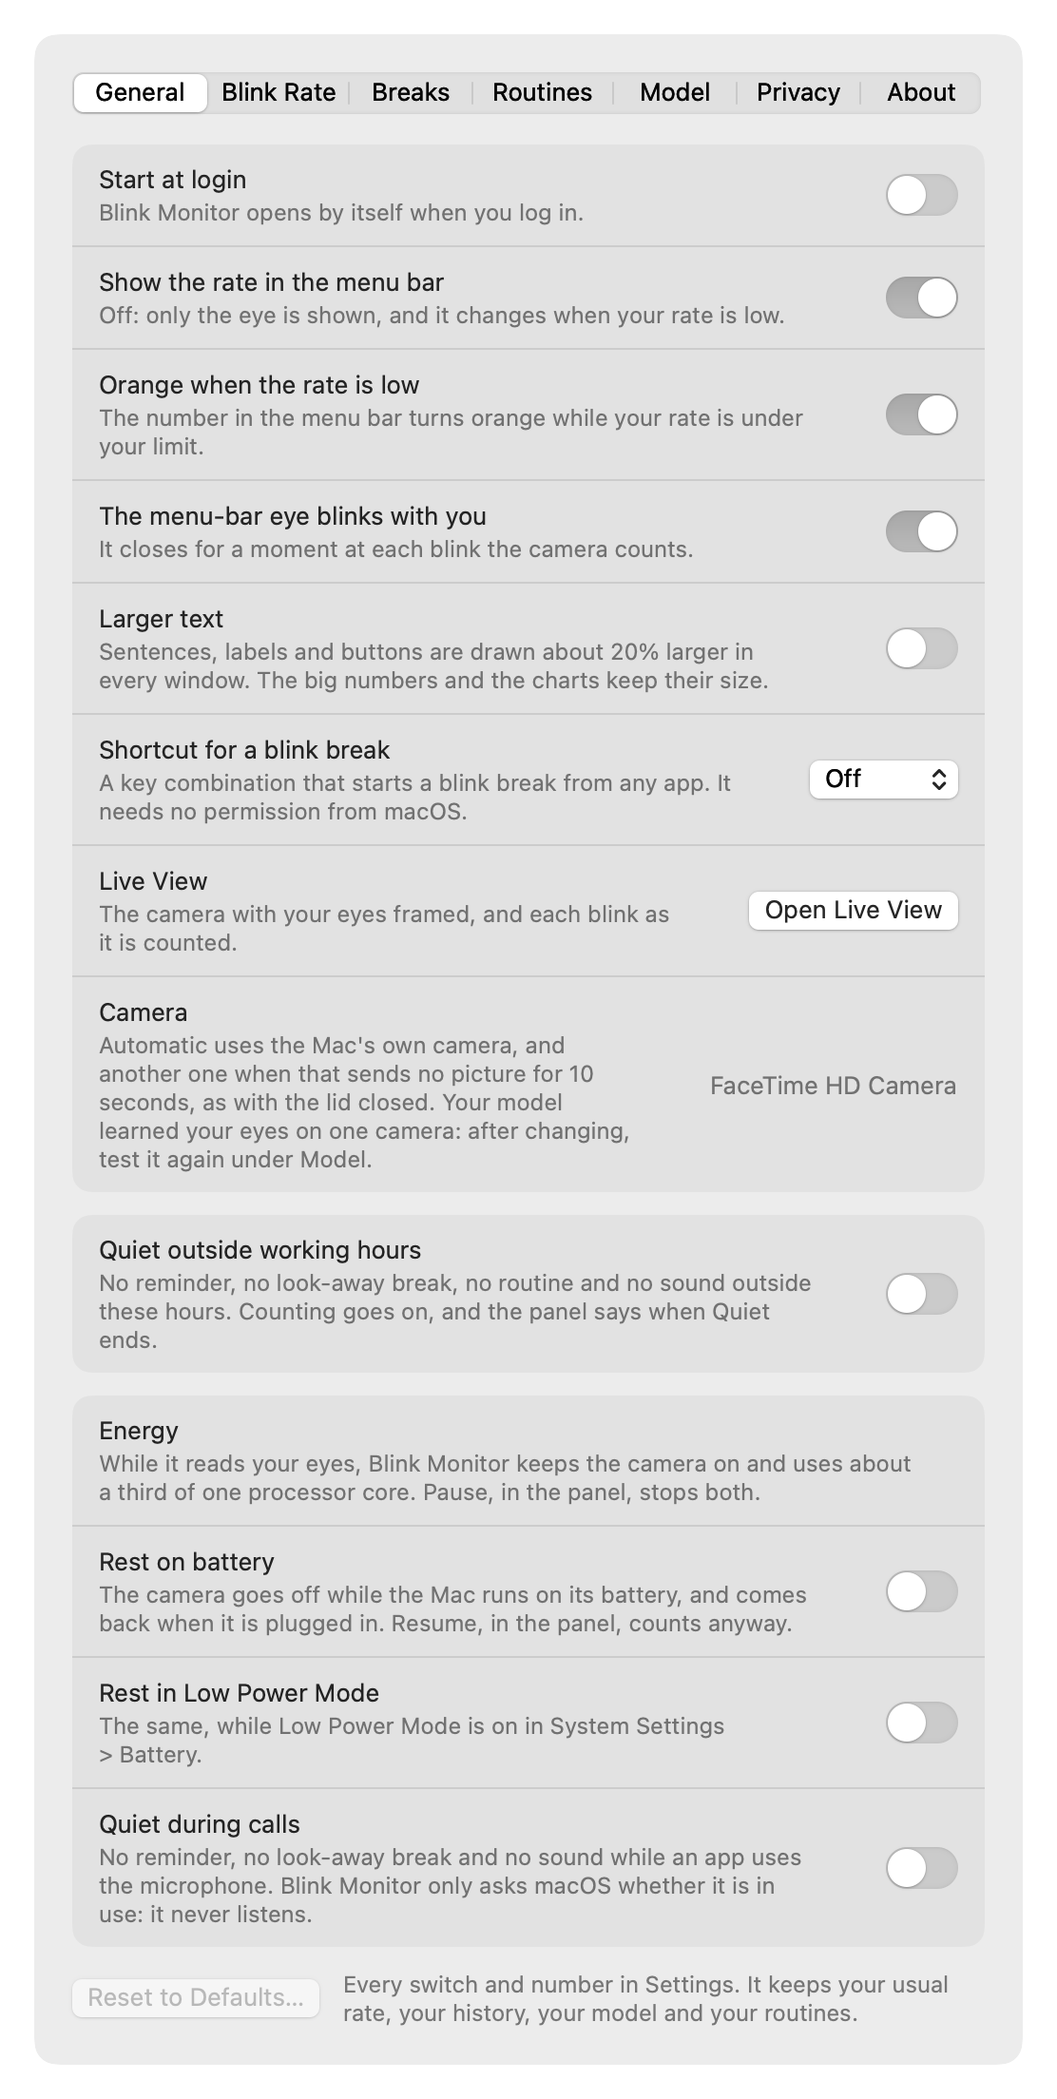
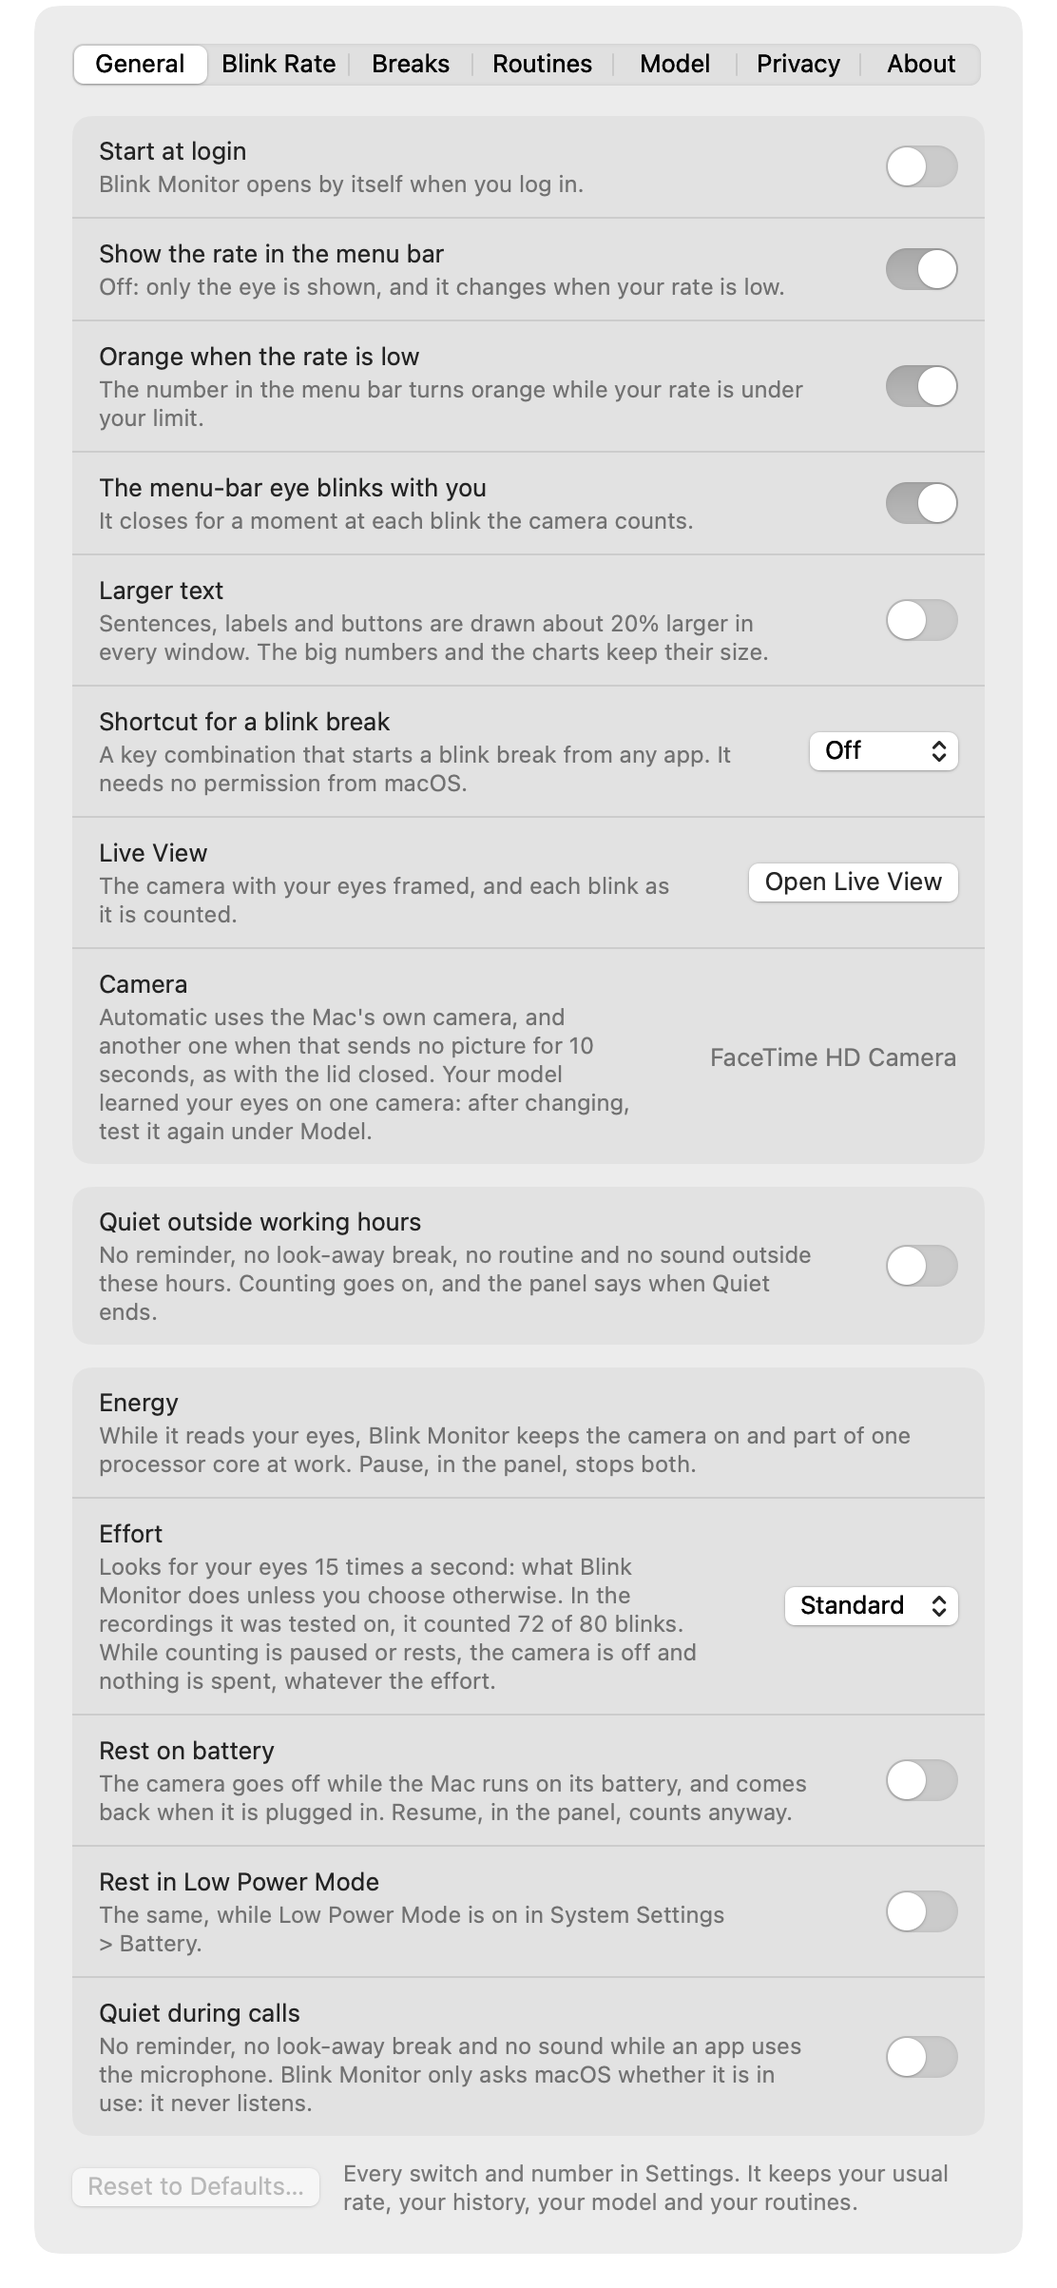
Settings > General > Effort: Light, Standard or Thorough, each with what it costs and what it counted
One stored choice, Standard unless chosen (Preferences.Standard, Reset to
Defaults, hasChoices). The row says for each level how often the eyes are looked
for, its processor work next to Standard (about 25% less, about 70% more) and
how many of the 80 marked blinks it counted, next to Standard's 72: the numbers
are read from Effort.measured, so a new measurement changes the words with it.
It also says how the choice sits with Pause and the two ways of resting: the
camera is off then, and nothing is spent whatever the effort.

The choice reaches the camera's thread at its next frame (MonitorPipeline
.setEffort): the counters are kept, a closure in progress is dropped, as when a
new model takes over.

The Energy row no longer says "about a third of one processor core": that was
measured in the app before a frame's work was made lighter, and the new figure
needs a camera to measure.

Snapshots: settings-general (which the docs show), and the two other levels.

diff --git a/Sources/BlinkMonitor/App/MonitorPipeline.swift b/Sources/BlinkMonitor/App/MonitorPipeline.swift
@@ -58,7 +58,8 @@ struct MonitorUpdate {
 ///
 /// THREE THINGS KEEP IT CHEAP IN THE BACKGROUND:
 ///   - Frames get only the work they need: `FrameSchedule` (inside the reader) searches
-///     for the eyes every other frame, and looks at one frame in six when nobody is there.
+///     for the eyes every other frame (more or less often with another `Effort`), and
+///     looks at one frame in six when nobody is there.
 ///   - A search looks for the face in the whole frame twice a second only; in between it
 ///     places the landmarks in the box where the face was (`EyeLocator.usual`).
 ///   - The rest of the app is only told what it needs. With no window open, an update is
@@ -77,6 +78,8 @@ final class MonitorPipeline: @unchecked Sendable {
         var tick = false
         /// Another model to read the eyes with, from the next frame on.
         var newJudge: EyeJudging?
+        /// Another level of effort, from the next frame on.
+        var newEffort: Effort?
         /// A blink break is running: see `setExercise`.
         var exercise = false
     }
@@ -84,9 +87,12 @@ final class MonitorPipeline: @unchecked Sendable {
     private let requests = Locked(Requests())
     /// Nil for a pipeline that is handed readings instead of frames (the demo).
     private var reader: EyeReader?
-    /// How the eyes are found. Kept, so that a model that takes over later (`setJudge`)
-    /// is given eyes found the same way.
+    /// The model, how the eyes are found and how often (`Effort`). Kept, so that when one
+    /// of the three changes (`setJudge`, `setEffort`) the reader is built again with the
+    /// two others as they were.
+    private var judge: EyeJudging?
     private let strategy: EyeLocator.Strategy
+    private var effort: Effort
     private var detector = BlinkDetector()
     private var stats = BlinkStats()
     private var minutes = MinuteAggregator()
@@ -101,19 +107,23 @@ final class MonitorPipeline: @unchecked Sendable {
     /// `classifier`: the model that reads the eyes. The one trained in the app
     /// (`EyeNetwork`) or a Core ML one made by the Python route (`EyeClassifier`).
     /// `strategy`: how the eyes are found (`EyeLocator.usual` unless asked otherwise at launch).
-    init(classifier: EyeJudging, strategy: EyeLocator.Strategy = EyeLocator.usual) {
+    /// `effort`: how often they are looked for, as chosen in Settings.
+    init(classifier: EyeJudging, strategy: EyeLocator.Strategy = EyeLocator.usual, effort: Effort = .standard) {
         self.strategy = strategy
-        reader = Self.reader(classifier, strategy)
+        self.effort = effort
+        judge = classifier
+        reader = Self.reader(classifier, strategy, effort)
     }
 
     /// A pipeline with no camera and no model behind it: see `process(_:time:)` for readings.
     init() {
         strategy = EyeLocator.usual
+        effort = .standard
         reader = nil
     }
 
-    private static func reader(_ classifier: EyeJudging, _ strategy: EyeLocator.Strategy) -> EyeReader {
-        EyeReader(classifier: classifier, finder: EyeFinder(locator: EyeLocator(strategy: strategy)))
+    private static func reader(_ classifier: EyeJudging, _ strategy: EyeLocator.Strategy, _ effort: Effort) -> EyeReader {
+        EyeReader(classifier: classifier, finder: EyeFinder(locator: EyeLocator(strategy: strategy), schedule: effort.schedule))
     }
 
     // MARK: - Requests from the main thread
@@ -140,6 +150,12 @@ final class MonitorPipeline: @unchecked Sendable {
     /// The counters and the minute in progress are kept; a closure in progress is dropped.
     func setJudge(_ judge: EyeJudging) {
         requests.withLock { $0.newJudge = judge }
+    }
+
+    /// Another level of effort, from the next frame on: it was chosen in Settings. Like a
+    /// new model, it keeps the counters and drops a closure in progress.
+    func setEffort(_ effort: Effort) {
+        requests.withLock { $0.newEffort = effort }
     }
 
     /// A blink break starts (true) or ends (false). WHILE IT RUNS, NOTHING GOES INTO THE
@@ -215,6 +231,7 @@ final class MonitorPipeline: @unchecked Sendable {
                 requests.reset = false
                 requests.tick = false
                 requests.newJudge = nil
+                requests.newEffort = nil
             }
             return requests
         }
@@ -222,9 +239,14 @@ final class MonitorPipeline: @unchecked Sendable {
             detector.reset()
             stats = BlinkStats()
         }
-        if let judge = asked.newJudge, reader != nil {
-            reader = Self.reader(judge, strategy)
-            detector.reset()
+        // A new model, or another level of effort: the eyes are read by a new reader.
+        if reader != nil, asked.newJudge != nil || (asked.newEffort != nil && asked.newEffort != effort) {
+            judge = asked.newJudge ?? judge
+            effort = asked.newEffort ?? effort
+            if let judge {
+                reader = Self.reader(judge, strategy, effort)
+                detector.reset()
+            }
         }
         return asked
     }
@@ -243,7 +265,7 @@ final class MonitorPipeline: @unchecked Sendable {
         // During a blink break the frame is "not read" as far as the count goes.
         let watched = stats.frame(time: time, eyesRead: reading.closed != nil && !asked.exercise)
         var newBlinks = 0
-        if let event = detector.update(time: time, closed: reading.closed) {
+        if let event = detector.update(time: time, reading: reading) {
             update.event = event
             if !asked.exercise {
                 stats.record(event)

diff --git a/Tests/BlinkMonitorTests/ModelTests.swift b/Tests/BlinkMonitorTests/ModelTests.swift
@@ -335,6 +335,19 @@ struct PreferencesTests {
         }
     }
 
+    @Test("The effort is Standard until chosen, is kept, and a word this version does not know reads as Standard")
+    func effort() {
+        withStore { store in
+            let preferences = Preferences(defaults: store)
+            #expect(preferences.effort == .standard && !preferences.hasChoices)
+            preferences.effort = .thorough
+            #expect(preferences.hasChoices)
+            #expect(Preferences(defaults: store).effort == .thorough)
+            store.set("extreme", forKey: "effort")
+            #expect(Preferences(defaults: store).effort == .standard)
+        }
+    }
+
     @Test("Reset to Defaults puts every choice back, and keeps what was measured or lived")
     func resetChoices() {
         withStore { store in
@@ -359,6 +372,7 @@ struct PreferencesTests {
             preferences.breakNudgesOn = true
             preferences.breakEndSound = false
             preferences.pauseOnBattery = true
+            preferences.effort = .light
             preferences.quietDuringCalls = true
             preferences.liveViewSound = true
             preferences.cameraID = "desk"
@@ -373,6 +387,7 @@ struct PreferencesTests {
                 #expect(read.floor == PublishedRates.startingFloor && !read.ownRateOfferAnswered)
                 #expect(read.breakPlan == BreakPlan.Preset.classic.plan && !read.breakNudgesOn && read.breakEndSound)
                 #expect(!read.pauseOnBattery && !read.quietDuringCalls && !read.liveViewSound && read.cameraID == nil)
+                #expect(read.effort == .standard)
                 // Kept.
                 #expect(read.reference == measured && read.welcomed)
                 #expect(read.pause == .paused(until: pausedUntil) && read.quietUntil == pausedUntil)
@@ -796,6 +811,26 @@ struct SettingsWordsTests {
         }
         #expect(EraseWords.history(startingLimit: 10).text.contains("goes back to 10"))
         #expect(EraseWords.captures(1).text.hasPrefix("1 capture of"))
+    }
+
+    @Test("Each effort says what it was measured to count, out of how many, and what it costs next to Standard")
+    func effortWords() {
+        #expect(Effort.allCases.map(EffortWords.name) == ["Light", "Standard", "Thorough"])
+        for effort in Effort.allCases {
+            let text = EffortWords.detail(effort), measured = effort.measured
+            #expect(text.contains("counted \(measured.found) of \(measured.marked) blinks"), "\(text)")
+            #expect(text.contains("\(effort.searchesASecond) times a second"), "\(text)")
+            // Nothing the graphics processor has a part in, so nothing said about it.
+            #expect(!text.lowercased().contains("graphics") && !text.contains("GPU"))
+        }
+        // The lower level says what it gives up beside what Standard counts; both others
+        // say what they cost beside it.
+        let standard = Effort.standard.measured.found
+        #expect(EffortWords.detail(.light).contains("where Standard counted \(standard)"))
+        #expect(EffortWords.detail(.light).contains("About 25% less processor work than Standard"))
+        #expect(EffortWords.detail(.thorough).contains("About 70% more processor work than Standard"))
+        #expect(!EffortWords.detail(.standard).contains("than Standard"))
+        #expect(EffortWords.whileResting.contains("the camera is off"))
     }
 
     @Test("Erasing the routine log empties it and keeps the routines")

diff --git a/Sources/BlinkMonitor/App/Preferences.swift b/Sources/BlinkMonitor/App/Preferences.swift
@@ -17,6 +17,7 @@ final class Preferences: ObservableObject {
         static let cameraID = "cameraID"
         static let pauseOnBattery = "pauseOnBattery"
         static let pauseInLowPower = "pauseInLowPowerMode"
+        static let effort = "effort"
         static let quietDuringCalls = "quietDuringCalls"
         static let blinkBreakShortcut = "blinkBreakShortcut"
         static let largerText = "largerText"
@@ -65,6 +66,9 @@ final class Preferences: ObservableObject {
     /// (`EnergyPause`). Both off unless chosen.
     @Published var pauseOnBattery: Bool { didSet { defaults.set(pauseOnBattery, forKey: Key.pauseOnBattery) } }
     @Published var pauseInLowPower: Bool { didSet { defaults.set(pauseInLowPower, forKey: Key.pauseInLowPower) } }
+    /// How often the eyes are looked for while counting runs (`Effort`). Standard unless
+    /// chosen: what the app did before the choice existed.
+    @Published var effort: Effort { didSet { defaults.set(effort.rawValue, forKey: Key.effort) } }
     /// No banner and no sound while the microphone is in use, which is most likely a call.
     @Published var quietDuringCalls: Bool { didSet { defaults.set(quietDuringCalls, forKey: Key.quietDuringCalls) } }
     /// "Quiet outside working hours": off unless chosen. The two times are minutes since
@@ -239,6 +243,7 @@ final class Preferences: ObservableObject {
         static let liveViewSound = false
         static let pauseOnBattery = false
         static let pauseInLowPower = false
+        static let effort = Effort.standard
         static let quietDuringCalls = false
         static let workingHoursOn = false
         static let largerText = false
@@ -278,6 +283,7 @@ final class Preferences: ObservableObject {
         liveViewSound = Standard.liveViewSound
         pauseOnBattery = Standard.pauseOnBattery
         pauseInLowPower = Standard.pauseInLowPower
+        effort = Standard.effort
         quietDuringCalls = Standard.quietDuringCalls
         blinkBreakShortcut = nil
         largerText = Standard.largerText
@@ -311,6 +317,7 @@ final class Preferences: ObservableObject {
         showRateInMenuBar != Standard.showRateInMenuBar || orangeRateWhenLow != Standard.orangeRateWhenLow
             || liveViewSound != Standard.liveViewSound || pauseOnBattery != Standard.pauseOnBattery
             || pauseInLowPower != Standard.pauseInLowPower || quietDuringCalls != Standard.quietDuringCalls
+            || effort != Standard.effort
             || blinkBack != Standard.blinkBack || remindersOn != Standard.remindersOn
             || automaticLimit != Standard.automaticLimit || floor != Standard.floor
             || breakNudgesOn != Standard.breakNudgesOn || breakMinutes != Standard.breakMinutes
@@ -334,6 +341,8 @@ final class Preferences: ObservableObject {
         cameraID = defaults.string(forKey: Key.cameraID)
         pauseOnBattery = bool(Key.pauseOnBattery, Standard.pauseOnBattery)
         pauseInLowPower = bool(Key.pauseInLowPower, Standard.pauseInLowPower)
+        // A word this version does not know (one written by a later version) reads as the standard.
+        effort = defaults.string(forKey: Key.effort).flatMap(Effort.init(rawValue:)) ?? Standard.effort
         quietDuringCalls = bool(Key.quietDuringCalls, Standard.quietDuringCalls)
         blinkBreakShortcut = defaults.string(forKey: Key.blinkBreakShortcut).flatMap(ShortcutChoice.init(rawValue:))
         largerText = bool(Key.largerText, Standard.largerText)

diff --git a/Sources/BlinkMonitor/App/EffortWords.swift b/Sources/BlinkMonitor/App/EffortWords.swift
@@ -1,0 +1,44 @@
+import Foundation
+import BlinkCore
+
+/// What Settings says about the effort (`Effort`): what each level does, what it was
+/// measured to cost and to count. Every number in a sentence is read from
+/// `Effort.measured`, so that a new measurement changes the words with it.
+enum EffortWords {
+
+    static let row = "Effort"
+
+    static func name(_ effort: Effort) -> String {
+        switch effort {
+        case .light: return "Light"
+        case .standard: return "Standard"
+        case .thorough: return "Thorough"
+        }
+    }
+
+    /// What the level does, what it costs next to Standard, and how many of the marked
+    /// blinks it counted: for a lower level, how many fewer, in so many words.
+    static func detail(_ effort: Effort) -> String {
+        let measured = effort.measured, standard = Effort.standard.measured
+        let counted = "In the recordings it was tested on, it counted \(measured.found) of \(Format.count(measured.marked, "blink"))"
+        switch effort {
+        case .light:
+            return "Looks for your eyes \(effort.searchesASecond) times a second, and forgets what it read while your head moved fast. "
+                + "About \(share(effort)) less processor work than Standard. \(counted), where Standard counted \(standard.found)."
+        case .standard:
+            return "Looks for your eyes \(effort.searchesASecond) times a second: what Blink Monitor does unless you choose otherwise. \(counted)."
+        case .thorough:
+            return "Looks for your eyes in every picture of the camera, \(effort.searchesASecond) times a second. "
+                + "About \(share(effort)) more processor work than Standard. \(counted), where Standard counted \(standard.found)."
+        }
+    }
+
+    /// How the choice sits with Pause and with the two ways of resting.
+    static let whileResting = "While counting is paused or rests, the camera is off and nothing is spent, whatever the effort."
+
+    /// "25%", "70%": the difference with Standard, to the nearest five.
+    static func share(_ effort: Effort) -> String {
+        let percent = Int((abs(effort.workAgainstStandard) * 20).rounded()) * 5
+        return "\(percent)%"
+    }
+}

diff --git a/Sources/BlinkMonitor/App/MonitorModel.swift b/Sources/BlinkMonitor/App/MonitorModel.swift
@@ -150,6 +150,7 @@ final class MonitorModel: ObservableObject {
     private var paceOfDemo: AnyCancellable?
     private var lookOfDemo: AnyCancellable?
     private var exerciseWatch: AnyCancellable?
+    private var effortWatch: AnyCancellable?
     private let performanceLog = PerformanceLog()
     private let blinkSound = NSSound(named: "Pop")
     private var liveViewOpen = false
@@ -197,6 +198,10 @@ final class MonitorModel: ObservableObject {
         // The exercise is left out of the count for as long as it runs (`MonitorPipeline.setExercise`).
         exerciseWatch = blinkBreak.$exercise.sink { [weak self] exercise in
             self?.pipeline?.setExercise(exercise.map { !$0.isDone } ?? false)
+        }
+        // The effort chosen in Settings reaches the camera's thread at its next frame.
+        effortWatch = preferences.$effort.dropFirst().sink { [weak self] effort in
+            self?.pipeline?.setEffort(effort)
         }
         routines.session.onEndedLate = { [weak self] session in
             guard let self else { return }
@@ -297,7 +302,7 @@ final class MonitorModel: ObservableObject {
             fail(.model(trainedHere: trainedHere), detail: "The eye model could not be loaded.\n\(modelSource.remedy)\n\(error)")
             return
         }
-        let pipeline = MonitorPipeline(classifier: judge, strategy: Options.eyeSearch)
+        let pipeline = MonitorPipeline(classifier: judge, strategy: Options.eyeSearch, effort: preferences.effort)
         connect(pipeline)
         if !cameraLent { frames.withLock { $0 = .monitor(pipeline) } }
 

diff --git a/Sources/BlinkMonitor/MenuBar/SettingsView.swift b/Sources/BlinkMonitor/MenuBar/SettingsView.swift
@@ -335,12 +335,20 @@ struct SettingsView: View {
         }
     }
 
-    /// What counting costs, and the two ways to spare a battery. Also quiet during calls:
-    /// the other thing the Mac's own state can decide.
+    /// What counting costs, how much of it to spend (`Effort`), and the two ways to spare
+    /// a battery. Also quiet during calls: the other thing the Mac's own state can decide.
     private var energyCard: some View {
         Card {
-            Row("Energy", detail: "While it reads your eyes, Blink Monitor keeps the camera on and uses about a third of one processor core. Pause, in the panel, stops both.") {
+            Row("Energy", detail: "While it reads your eyes, Blink Monitor keeps the camera on and part of one processor core at work. Pause, in the panel, stops both.") {
                 EmptyView()
+            }
+            Divider()
+            Row(EffortWords.row, detail: EffortWords.detail(preferences.effort) + " " + EffortWords.whileResting) {
+                Picker(EffortWords.row, selection: $preferences.effort) {
+                    ForEach(Effort.allCases, id: \.self) { Text(EffortWords.name($0)).tag($0) }
+                }
+                .labelsHidden()
+                .fixedSize()
             }
             Divider()
             Row("Rest on battery", detail: "The camera goes off while the Mac runs on its battery, and comes back when it is plugged in. Resume, in the panel, counts anyway.") {

diff --git a/Sources/BlinkMonitor/App/Snapshots.swift b/Sources/BlinkMonitor/App/Snapshots.swift
@@ -167,6 +167,9 @@ enum Snapshots {
             ("history-weeks-small-screen", AnyView(history(.watching, weeks: true).environment(\.screenRoom, 700))),
             ("settings-general", settings(.general)),
             ("settings-general-working-hours", settings(.general, scene: .outsideHours)),
+            // The two efforts that are not the standard: each says what it costs and counts.
+            ("settings-general-effort-light", settings(.general) { _, model in model.preferences.effort = .light }),
+            ("settings-general-effort-thorough", settings(.general) { _, model in model.preferences.effort = .thorough }),
             // A shortcut was chosen, and macOS refused it: said on the row, not swallowed.
             ("settings-general-shortcut-refused", settings(.general) { _, model in
                 model.preferences.blinkBreakShortcut = .controlOptionCommandB
